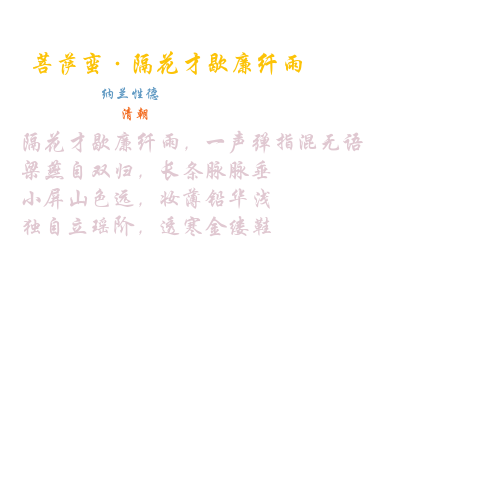
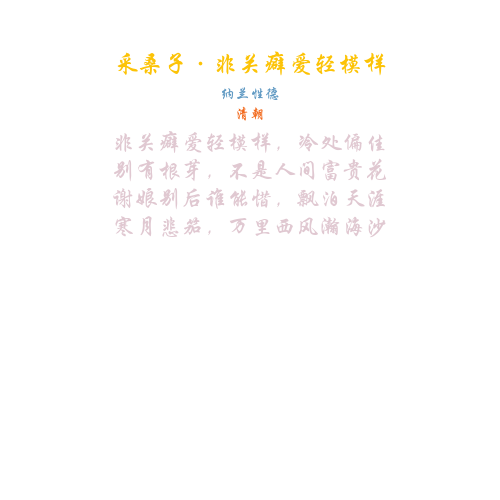
feat: hyprlock poem

diff --git a/.config/hypr/scripts/poem/poem_show.py b/.config/hypr/scripts/poem/poem_show.py
@@ -34,29 +34,41 @@ class PoemShow:
 
     def draw(self, poem:PoemModel):
         """绘制诗词"""
+        width = 500
         # 空白图像
-        image = Image.new('RGBA', (500, 500), (255, 0, 0, 0)) # 透明
+        image = Image.new('RGBA', (width, 500), (255, 0, 0, 0)) # 透明
         #image = Image.new('RGB', (500, 600), (20, 27, 41))
         #image = Image.new('RGB', (500, 400), (255, 27, 41))
         draw = ImageDraw.Draw(image)
         # 画笔
-        font_title = ImageFont.truetype('STXINGKA.TTF', 25)
+        font_title = ImageFont.truetype('STXINGKA.TTF', 25)        
         font = ImageFont.truetype('STXINGKA.TTF', 23)
         font_author = ImageFont.truetype('STXINGKA.TTF', 15)
         
-        left = 20
         # 画笔颜色
-        draw.text((left+10, 50), poem.title, font=font_title, fill=(252, 195, 7))
-        draw.text((left+80, 85), poem.author, font=font_author, fill=(97, 154, 195))
-        draw.text((left+100, 105), poem.dynasty, font=font_author, fill=(242, 107, 31))
+        draw.text((self.__text_center(poem.title, font_title, width), 50), poem.title, font=font_title, fill=(252, 195, 7))
+        draw.text((self.__text_center(poem.author, font_author, width), 85), poem.author, font=font_author, fill=(97, 154, 195))
+        draw.text((self.__text_center(poem.dynasty, font_author, width), 105), poem.dynasty, font=font_author, fill=(242, 107, 31))
         top = 130
-        for p in poem.paragraphs:
-            draw.text((left, top), p.content, font=font, fill=(224, 200, 209))
+        line = ''
+        for pg in poem.paragraphs:
+            if len(line) < len(pg.content):
+                line = pg.content
+        
+        for pg in poem.paragraphs:
+            draw.text((self.__text_center(line, font, width), top), pg.content, font=font, fill=(224, 200, 209))
             top += 28
         
-
         image.show()
         image.save(self.image_path, 'PNG')
+
+    def __text_center(self, text, font:ImageFont, width):
+        l,t,r,b = font.getbbox(text)
+        w = r - l
+        h = b - t
+        #w,h = font.getsize(text)
+        left = (width-w)/2
+        return left
 
 def main():
     ps = PoemShow()
